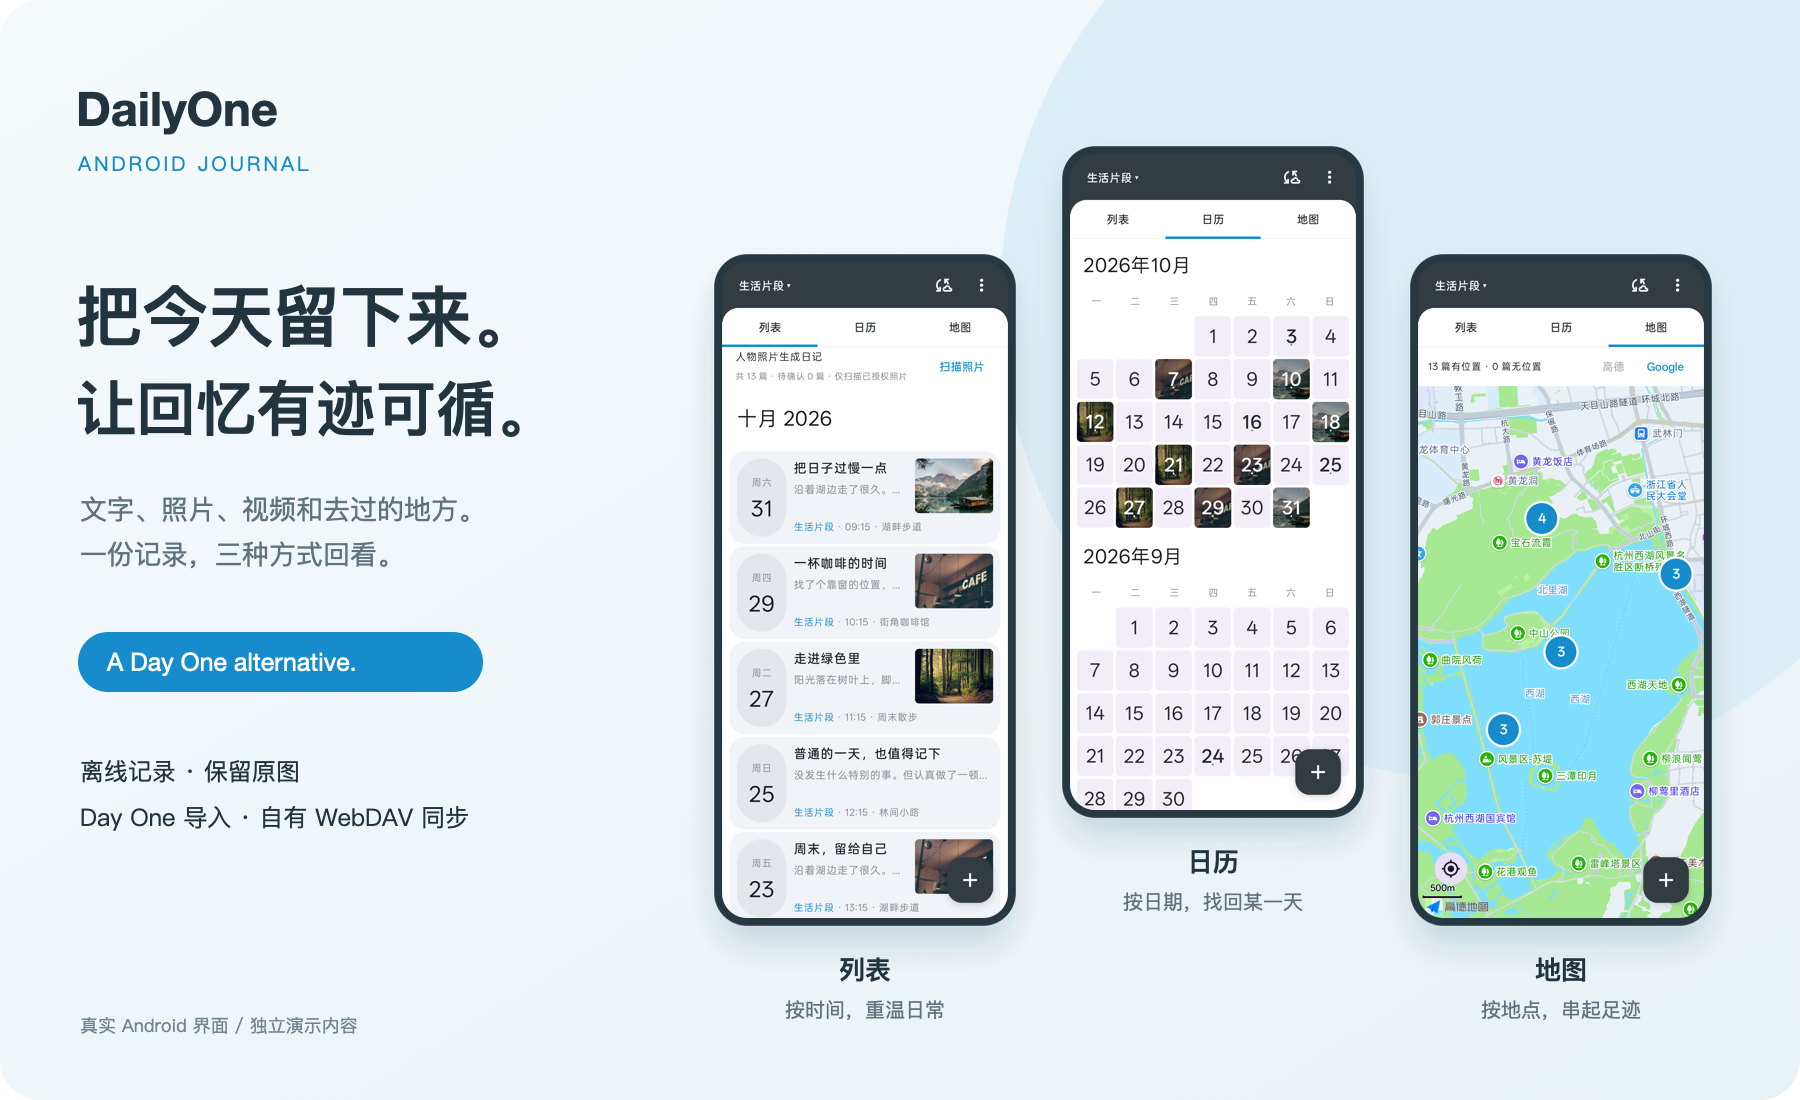
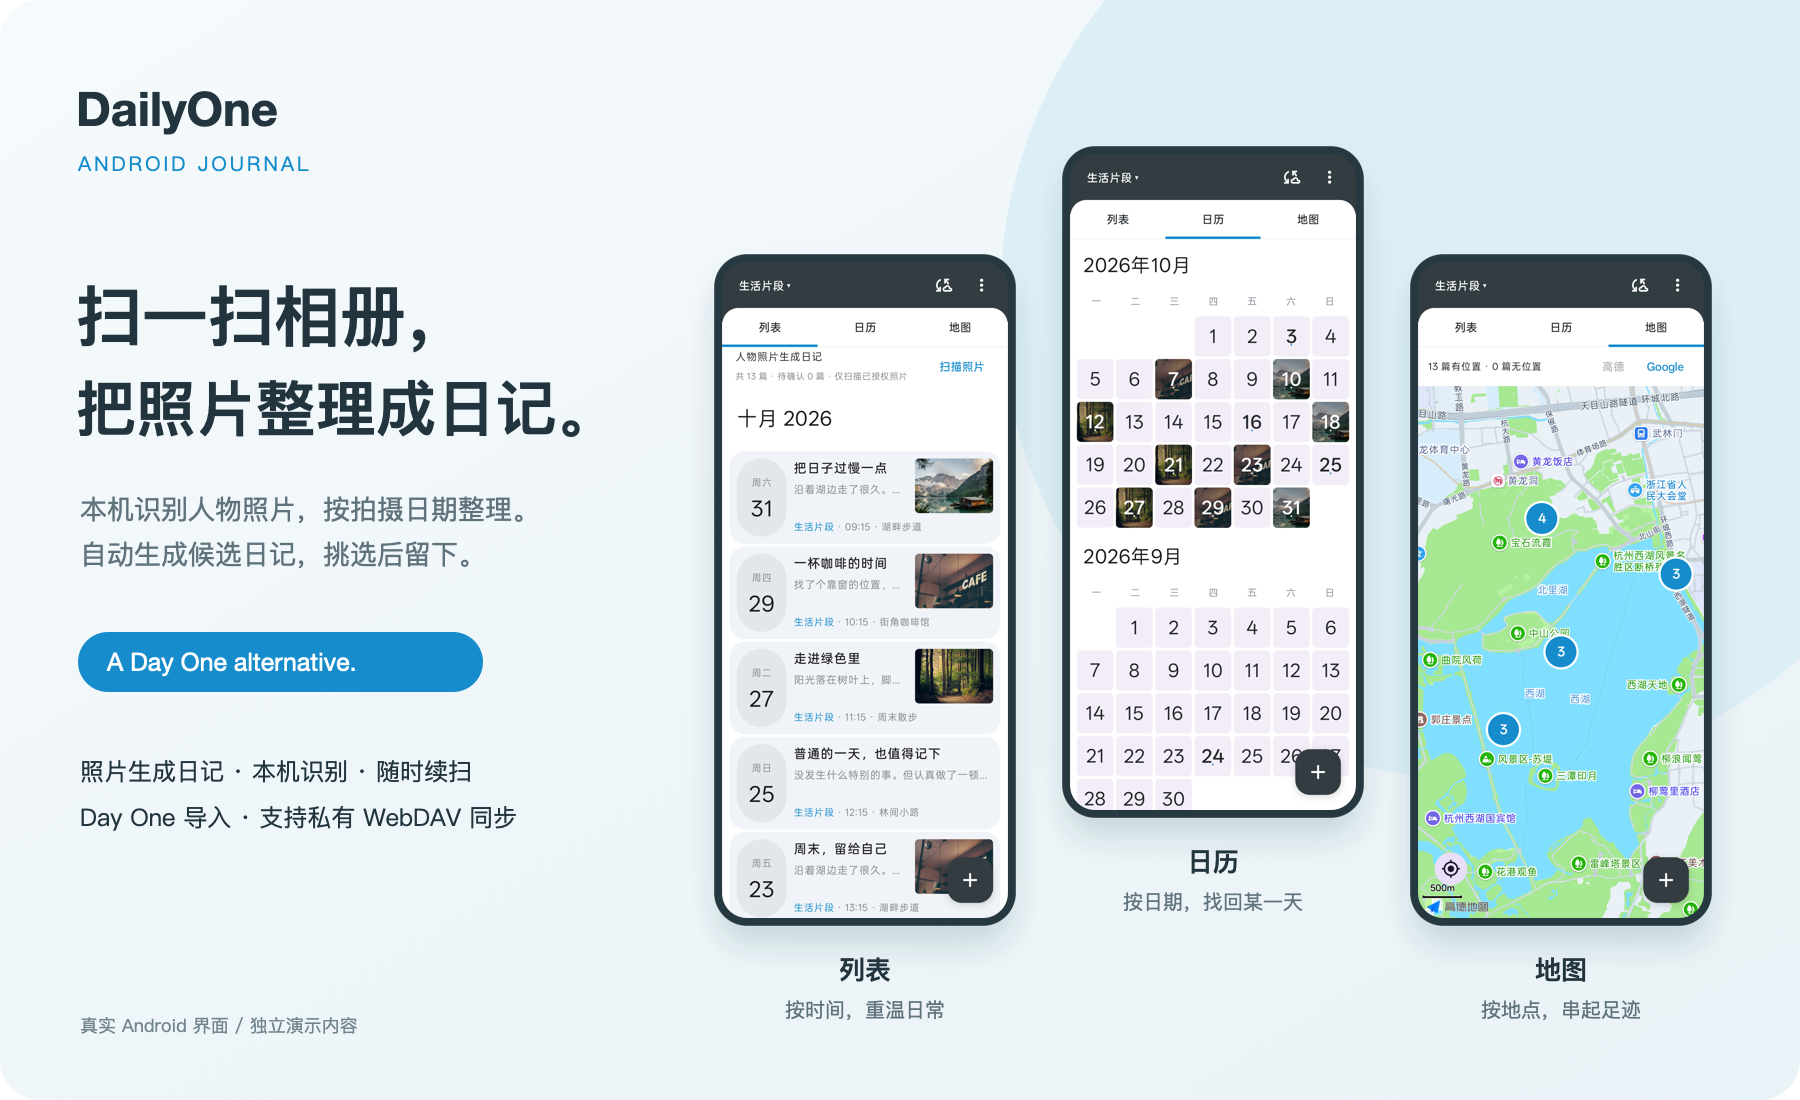
Highlight photo-generated journals and private WebDAV sync

Changed region(s): [[0.0311, 0.2473, 0.3422, 0.4018], [0.0311, 0.4327, 0.28, 0.5255], [0.0311, 0.68, 0.28, 0.7727]]

diff --git a/scripts/render-showcase.py b/scripts/render-showcase.py
@@ -16,14 +16,14 @@ parts = ['''<svg xmlns="http://www.w3.org/2000/svg" width="1800" height="1800" v
 <g font-family="PingFang SC, sans-serif" fill="#22343E">
 <text x="76" y="126" font-family="Helvetica Neue, sans-serif" font-size="47" font-weight="700">DailyOne</text>
 <text x="78" y="171" font-size="20" fill="#168CCC" letter-spacing="3">ANDROID JOURNAL</text>
-<text x="76" y="340" font-size="66" font-weight="650">把今天留下来。</text>
-<text x="76" y="430" font-size="60" font-weight="650">让回忆有迹可循。</text>
-<text x="80" y="519" font-size="27" fill="#60737D">文字、照片、视频和去过的地方。</text>
-<text x="80" y="564" font-size="27" fill="#60737D">一份记录，三种方式回看。</text>
+<text x="76" y="340" font-size="66" font-weight="650">扫一扫相册，</text>
+<text x="76" y="430" font-size="60" font-weight="650">把照片整理成日记。</text>
+<text x="80" y="519" font-size="27" fill="#60737D">本机识别人物照片，按拍摄日期整理。</text>
+<text x="80" y="564" font-size="27" fill="#60737D">自动生成候选日记，挑选后留下。</text>
 <rect x="78" y="632" width="405" height="60" rx="30" fill="#168CCC"/>
 <text x="107" y="671" font-family="Helvetica Neue, sans-serif" font-size="25" fill="white">A Day One alternative.</text>
-<text x="80" y="780" font-size="24">离线记录 · 保留原图</text>
-<text x="80" y="826" font-size="24">Day One 导入 · 自有 WebDAV 同步</text>
+<text x="80" y="780" font-size="24">照片生成日记 · 本机识别 · 随时续扫</text>
+<text x="80" y="826" font-size="24">Day One 导入 · 支持私有 WebDAV 同步</text>
 <text x="80" y="1032" font-size="18" fill="#71848D">真实 Android 界面 / 独立演示内容</text>
 ''']
 for index, (name, title, subtitle) in enumerate([

diff --git a/README.md b/README.md
@@ -3,21 +3,37 @@
 </p>
 
 <h1 align="center">DailyOne</h1>
-<p align="center"><strong>A Day One alternative for Android.</strong><br />把今天留下来，让回忆有迹可循。</p>
+<p align="center"><strong>A Day One alternative for Android.</strong><br />扫一扫相册，把照片整理成日记。</p>
 
-把文字、照片、视频和去过的地方，收进自己的日记本。DailyOne 是面向 Android 的 **Day One alternative**：离线也能记录，用列表、日历和地图重温日常，通过自己的 WebDAV 存储在 Android 设备间同步。
+**相册里已经有很多回忆，日记不必再从空白页开始。** DailyOne 可以在本机扫描人物照片，按拍摄日期自动生成候选日记。挑出想留下的瞬间，再补上当时的心情。
+
+DailyOne 是面向 Android 的 **Day One alternative**：支持文字、照片与视频记录，用列表、日历和地图回顾日常，并支持私有 WebDAV 同步。
 
 从 Day One 迁移时，可以连同日记本、原始照片、视频和日期一起导入，让过去的记录继续留在身边。
 
-![DailyOne：记录今天，按日期和地点重温日常](docs/images/showcase.png)
+推荐搭配支持 WebDAV 的[坚果云](https://www.jianguoyun.com/)使用，使用自己的坚果云账号保存和同步日记。
+
+![DailyOne：扫描人物照片，按拍摄日期自动生成候选日记](docs/images/showcase.png)
 
 <p align="center">真实 Android 界面 · 独立演示日记 · <a href="docs/screenshots.md">查看完整截图</a></p>
 
+## 重点功能：扫描照片，自动生成日记
+
+拍了很多照片，却一直没空整理？让 DailyOne 先把相册中的人物照片按日期归入候选日记，你只需决定哪些值得留下。
+
+1. **扫描相册**：从列表或设置启动扫描，读取你授权的照片，在手机本机检测人物照片。
+2. **按日期自动整理**：根据拍摄时间逐步生成候选日记，边扫描边显示；拍摄日期无法确定时，提示你确认。
+3. **挑选并留下**：候选带有红色蒙版，左滑保留为正式日记，右滑删除；也可打开查看、补充文字或调整照片，再保存。
+
+**随时停，接着整理。** 扫描可停止，已生成的候选保留；再次扫描会跳过已处理且未变化的照片，适合分次整理积累的回忆。
+
+**照片识别在本机完成。** 不上传照片进行人物检测，不识别人物身份；扫描和删除候选均不删除系统相册原图。候选转为正式日记后才参与云同步。更多规则见[人物照片扫描说明](docs/photo-scan.md)。
+
 ## 为什么选择 DailyOne
 
-| 记下当下 | 换个方式回顾 | 自己保存，自主同步 |
+| 从照片开始写日记 | 换个方式回顾 | 支持私有 WebDAV 同步 |
 | --- | --- | --- |
-| 文字、照片、视频一起记录，添加拍摄时间与地点。 | 列表看日常，日历找某天，地图找去过的地方。 | 离线写作、保留原始媒体，按需手动同步到自己的 WebDAV。 |
+| 扫描人物照片，按拍摄日期生成候选日记，挑选保留后再补充文字。 | 列表看日常，日历找某天，地图找去过的地方。 | 离线写作、保留原始媒体，通过私有 WebDAV 按需同步，推荐搭配坚果云使用。 |
 
 **接着写，也能接着看。** 多日记本整理不同主题；从日历或地图进入集合、打开单篇后返回，继续停在原来的月份、地图视野和卡片位置。
 
@@ -69,14 +85,6 @@
 
 点击日期或地图标记，会弹出可滚动的卡片集合，展示标题、正文摘要、首张照片或视频缩略图、时间与地点。点击卡片进入单篇日记；也可新建条目，预填所选日期或地点。退出未编辑的空白草稿不会留下记录。
 
-## 从相册生成日记
-
-在列表或设置中选择扫描相册，应用在本机检测人物照片，按拍摄日期逐步生成候选日记，不上传照片进行识别，也不识别人物身份。
-
-候选带有红色蒙版：左滑保留为正式日记，右滑删除，也可打开编辑后保存。扫描可停止，已生成结果保留；再次扫描利用检查点跳过已处理且未变化的照片。无法确定拍摄日期的候选需要先确认日期。
-
-扫描只读取系统授权的照片，不删除系统相册原图；候选转正后才参与云同步。更多规则见[人物照片扫描说明](docs/photo-scan.md)。
-
 ## 地点与地图
 
 照片 GPS 可用于日记位置，并尝试解析名称与地址。全屏地图支持拖动选点、关键词搜索、附近地点、城市筛选和自定义地点名称，确认后才保存到日记。
@@ -99,13 +107,27 @@
 
 原始 JSON 和批次清单存于应用私有目录 `files/imports/`，**导入归档不参与云同步**。请保留原始导出目录。
 
-## 使用自己的 WebDAV 同步
+## 支持私有 WebDAV 同步
 
 日记先保存到本机，离线也可阅读与编辑。需要多设备同步时：
 
 1. 在支持 WebDAV 的服务上准备一个已有目录，使用 HTTPS 地址和应用专用密码。
 2. 打开应用设置，填写服务器地址、用户名和密码并保存。
 3. 返回列表点击「立即同步」。其他 Android 设备使用相同配置并手动同步。
+
+### 推荐服务：坚果云
+
+坚果云支持 WebDAV，可作为 DailyOne 的同步存储。在坚果云「账户信息 → 安全选项 → 第三方应用管理」中，为 DailyOne 生成应用密码，再填写：
+
+| 配置项 | 填写内容 |
+| --- | --- |
+| 服务器地址 | `https://dav.jianguoyun.com/dav/` |
+| 用户名 | 坚果云注册账号 |
+| 密码 | 为 DailyOne 生成的第三方应用密码，不是账号登录密码 |
+
+操作步骤见[坚果云官方 WebDAV 授权说明](https://help.jianguoyun.com/?p=2064)，服务地址参见[官方连接示例](https://help.jianguoyun.com/?p=2622)。
+
+### 同步目录与格式
 
 应用在所填目录下创建以下结构：
 

diff --git a/docs/screenshots.md b/docs/screenshots.md
@@ -2,7 +2,7 @@
 
 当前 Android 应用组件的真实渲染，使用独立演示日记和图库照片；不读取或修改个人日记数据库，不连接 WebDAV。地点采用公开坐标，演示地点不代表图库照片的实际拍摄地。
 
-## 记录生活，也随时回看
+## 扫描人物照片，把回忆整理成日记
 
 ![DailyOne 产品概览](images/showcase.png)
 
@@ -32,10 +32,10 @@
 
 | 参考中的表达方式 | DailyOne 的呈现 |
 | --- | --- |
-| 官网先讲记录和回顾的用途，再展开能力 | 首屏先说明能记录什么、如何回顾、数据如何保存 |
+| 官网先讲记录和回顾的用途，再展开能力 | 首屏重点介绍人物照片扫描、按日期生成候选日记，再说明回顾与同步 |
 | 产品界面配合简短文案，减少首屏说明负担 | 三视图概览图，加五张可查看原图的真实 Android 截图 |
 | App Store 首图使用获奖和媒体背书 | 展示 DailyOne 已实现的界面和用途，不使用其他产品的荣誉或评价 |
-| 多媒体、日记本、回顾和数据安全分别介绍 | 突出图文视频、多日记本、日历地图、Day One 导入与手动 WebDAV 同步 |
+| 多媒体、日记本、回顾和数据安全分别介绍 | 突出图文视频、多日记本、日历地图、Day One 导入与私有 WebDAV 同步 |
 
 Day One 的音频、回忆提醒、端到端加密等能力没有写作 DailyOne 的已实现功能；DailyOne 的限制与凭据保护方式见主 README。
 
